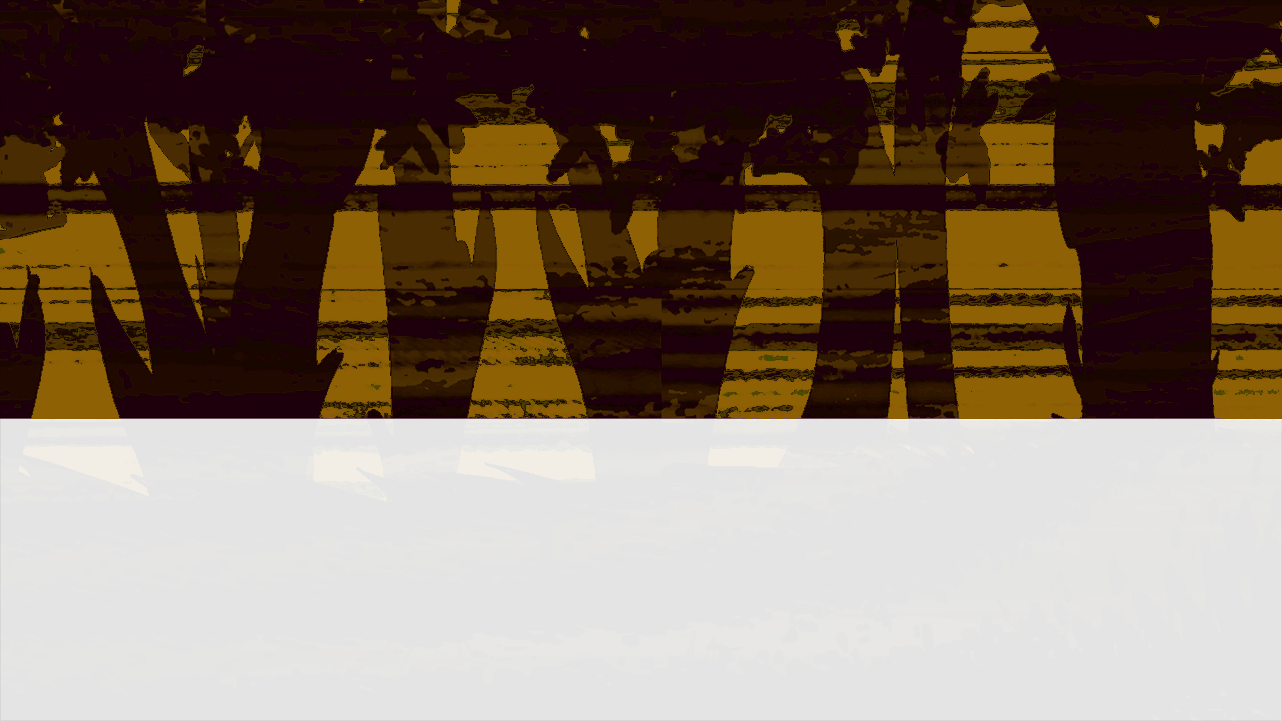
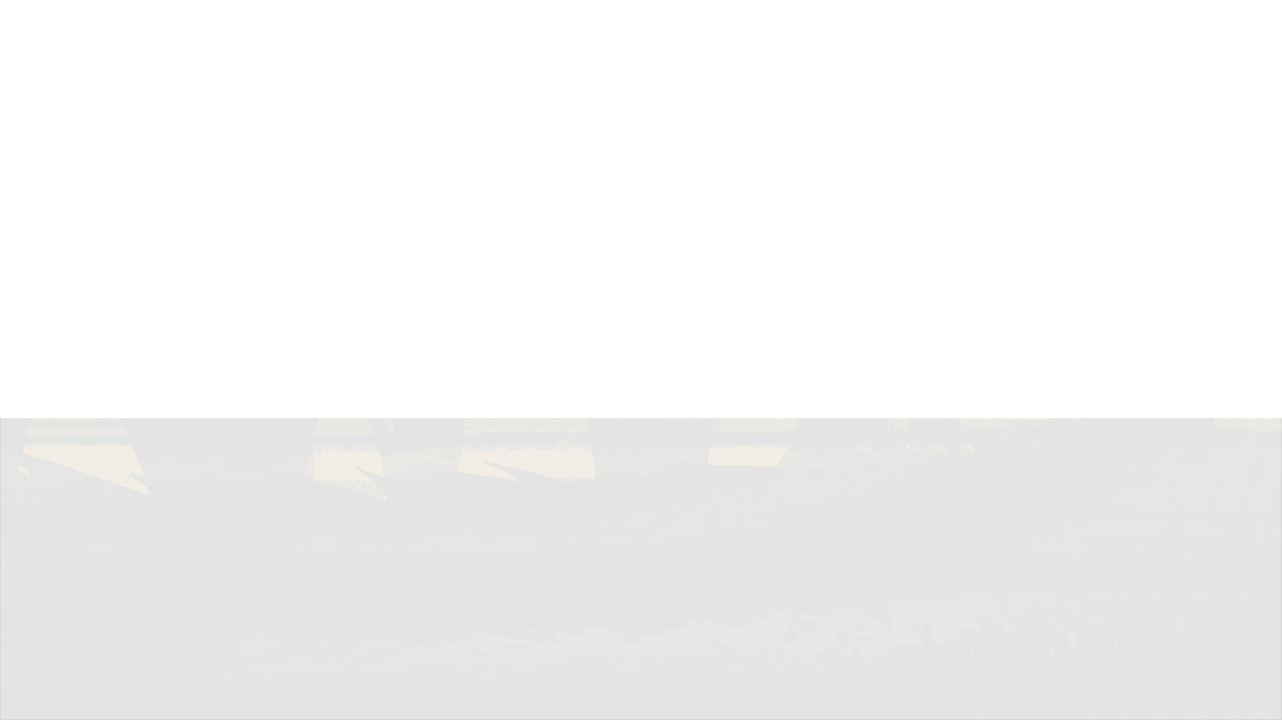
ideia mto antiga do ash

diff --git a/art/cortarimagens.py b/art/cortarimagens.py
@@ -1,0 +1,41 @@
+from PIL import Image
+import os
+
+def split_image(input_path, output_path1, output_path2, height1, height2):
+    original_image = Image.open(input_path).convert("RGBA")
+
+    width, total_height = original_image.size
+
+    transparent_first_half = Image.new("RGBA", (width, total_height), (0, 0, 0, 0))
+    transparent_second_half = Image.new("RGBA", (width, total_height), (0, 0, 0, 0))
+
+    transparent_first_half.paste(original_image.crop((0, 0, width, height1)), (0, 0))
+    transparent_second_half.paste(original_image.crop((0, total_height - height2, width, total_height)), (0, height1))
+
+    transparent_first_half.save(output_path1)
+    transparent_second_half.save(output_path2)
+
+
+if __name__ == "__main__":
+    input_image_name = "back.png"
+    output_image_name1 = "back1.png"
+    output_image_name2 = "back.png"
+    height_first_half = 418
+    height_second_half = 302
+
+    main_directory = input("Qual diretorio? ")
+
+    for folder in os.listdir(main_directory):
+        folder_path = os.path.join(main_directory, folder)
+
+        if os.path.isdir(folder_path):
+            input_image_path = os.path.join(folder_path, input_image_name)
+            output_image_path1 = os.path.join(folder_path, output_image_name1)
+            output_image_path2 = os.path.join(folder_path, output_image_name2)
+
+            split_image(input_image_path, output_image_path1, output_image_path2, height_first_half, height_second_half)
+
+
+
+
+
